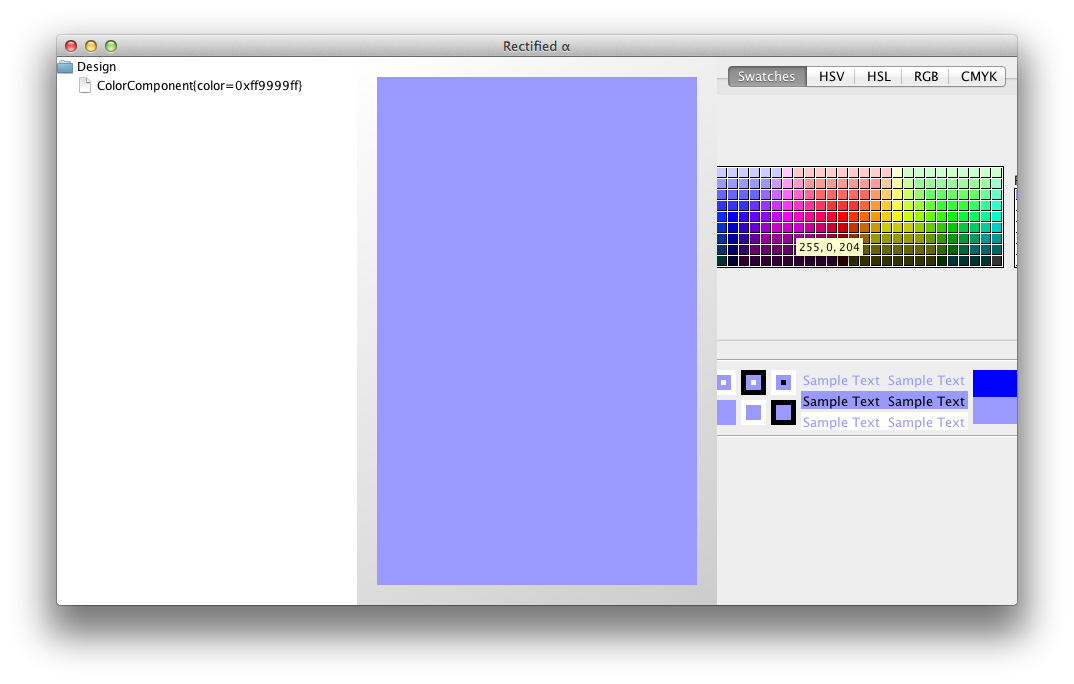
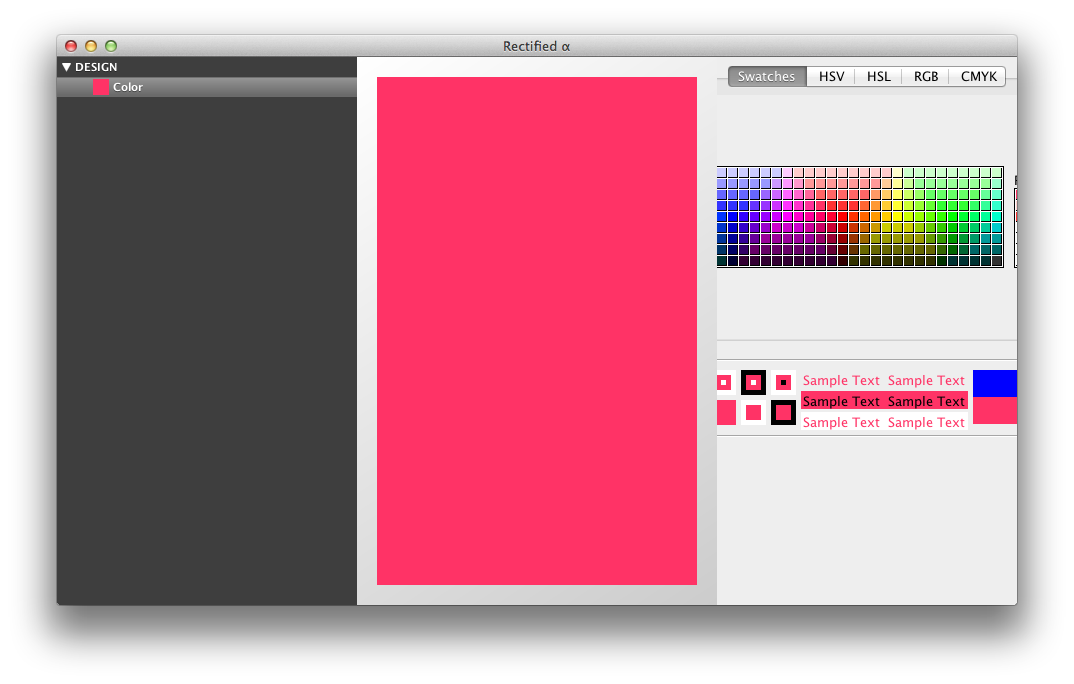
Add macwidgets styling to NavPanelView

diff --git a/src/main/java/net/avh4/tools/rectified/swing/NavPanelView.java b/src/main/java/net/avh4/tools/rectified/swing/NavPanelView.java
@@ -1,15 +1,22 @@
 package net.avh4.tools.rectified.swing;
 
+import com.explodingpixels.macwidgets.SourceListDarkColorScheme;
+import com.explodingpixels.macwidgets.plaf.SourceListTreeUI;
+import com.explodingpixels.widgets.IconProvider;
+import net.avh4.framework.uilayer.swing.SwingGraphicsOperations;
+import net.avh4.math.geometry.Rect;
 import net.avh4.tools.rectified.NavPanel;
 import net.avh4.tools.rectified.Observables;
 import net.avh4.tools.rectified.model.Component;
 import net.avh4.tools.rectified.model.Design;
 import net.avh4.util.Observer;
 import org.pcollections.PVector;
+import org.pcollections.TreePVector;
 
 import javax.swing.*;
 import javax.swing.event.TreeSelectionEvent;
 import javax.swing.event.TreeSelectionListener;
+import javax.swing.tree.DefaultMutableTreeNode;
 import javax.swing.tree.DefaultTreeModel;
 import javax.swing.tree.TreeNode;
 import java.awt.*;
@@ -20,7 +27,16 @@ public class NavPanelView extends JPanel {
 
     public NavPanelView(Observables observables, final NavPanel panel) {
         super(new BorderLayout());
-        tree = new JTree();
+        tree = new JTree() {
+            @Override protected void paintComponent(Graphics g) {
+                Graphics2D g2 = (Graphics2D) g;
+                g2.setRenderingHint(RenderingHints.KEY_ANTIALIASING, RenderingHints.VALUE_ANTIALIAS_ON);
+                super.paintComponent(g);
+            }
+        };
+        final SourceListTreeUI treeUI = new SourceListTreeUI();
+        tree.setUI(treeUI);
+        treeUI.setColorScheme(new SourceListDarkColorScheme());
         add(tree, BorderLayout.CENTER);
 
         tree.addTreeSelectionListener(new TreeSelectionListener() {
@@ -36,7 +52,8 @@ public class NavPanelView extends JPanel {
 
         observables.design().watch(new Observer<Design>() {
             @Override public void update(Design newValue) {
-                tree.setModel(new DefaultTreeModel(new DesignTreeNode(newValue)));
+                tree.setModel(new DefaultTreeModel(new RootTreeNode(newValue)));
+                tree.expandRow(0);
             }
         });
     }
@@ -82,12 +99,13 @@ public class NavPanelView extends JPanel {
         }
 
         @Override public Enumeration children() {
-            return new ComponentsEnumeration(design.components());
+            return new PVectorEnumeration<>(design.components());
         }
 
-        private static class ComponentTreeNode implements TreeNode {
+        private static class ComponentTreeNode extends DefaultMutableTreeNode {
             private final Component component;
             private final TreeNode parent;
+            private final SwingGraphicsOperations graphicsOperations = new SwingGraphicsOperations();
 
             public ComponentTreeNode(Component component, TreeNode parent) {
                 this.component = component;
@@ -95,7 +113,7 @@ public class NavPanelView extends JPanel {
             }
 
             @Override public String toString() {
-                return component.toString();
+                return component.navString();
             }
 
             @Override public TreeNode getChildAt(int childIndex) {
@@ -125,24 +143,81 @@ public class NavPanelView extends JPanel {
             @Override public Enumeration children() {
                 return null;
             }
+
+            @Override public Object getUserObject() {
+                return new IconProvider() {
+                    @Override public Icon getIcon() {
+                        return new Icon() {
+                            @Override public void paintIcon(java.awt.Component c, Graphics g, int x, int y) {
+                                graphicsOperations.setGraphicsContext(g);
+                                component.draw(Rect.fromTopLeft(x, y, getIconWidth(), getIconHeight()), graphicsOperations, null);
+                            }
+
+                            @Override public int getIconWidth() {
+                                return 16;
+                            }
+
+                            @Override public int getIconHeight() {
+                                return 16;
+                            }
+                        };
+                    }
+                };
+            }
+        }
+    }
+
+    private static class RootTreeNode implements TreeNode {
+        private Design design;
+
+        public RootTreeNode(Design newValue) {
+            design = newValue;
         }
 
-        private static class ComponentsEnumeration implements Enumeration {
-            private PVector<Component> components;
+        @Override public TreeNode getChildAt(int childIndex) {
+            return new DesignTreeNode(design);
+        }
 
-            public ComponentsEnumeration(PVector<Component> components) {
-                this.components = components;
-            }
+        @Override public int getChildCount() {
+            return 1;
+        }
 
-            @Override public boolean hasMoreElements() {
-                return !components.isEmpty();
-            }
+        @Override public TreeNode getParent() {
+            return null;
+        }
 
-            @Override public Object nextElement() {
-                final Component component = components.get(0);
-                components = components.minus(0);
-                return component;
-            }
+        @Override public int getIndex(TreeNode node) {
+            return 0;
+        }
+
+        @Override public boolean getAllowsChildren() {
+            return true;
+        }
+
+        @Override public boolean isLeaf() {
+            return false;
+        }
+
+        @Override public Enumeration children() {
+            return new PVectorEnumeration<>(TreePVector.singleton(design));
+        }
+    }
+
+    private static class PVectorEnumeration<T> implements Enumeration {
+        private PVector<T> components;
+
+        public PVectorEnumeration(PVector<T> components) {
+            this.components = components;
+        }
+
+        @Override public boolean hasMoreElements() {
+            return !components.isEmpty();
+        }
+
+        @Override public Object nextElement() {
+            final T component = components.get(0);
+            components = components.minus(0);
+            return component;
         }
     }
 }

diff --git a/src/main/java/net/avh4/tools/rectified/model/TextComponent.java b/src/main/java/net/avh4/tools/rectified/model/TextComponent.java
@@ -22,6 +22,10 @@ public class TextComponent implements Component {
         g.drawText(fm, value, rect.inset(padding), font, color);
     }
 
+    @Override public String navString() {
+        return "Text: “" + value + "”";
+    }
+
     @Override public String toString() {
         return "TextComponent{" +
                 "value='" + value + '\'' +

diff --git a/src/main/java/net/avh4/tools/rectified/model/PlacementComponent.java b/src/main/java/net/avh4/tools/rectified/model/PlacementComponent.java
@@ -48,6 +48,10 @@ public class PlacementComponent extends Group implements Component {
         return components.plusAll(remainderComponents);
     }
 
+    @Override public String navString() {
+        return toString();
+    }
+
     @Override public String toString() {
         return "PlacementComponent{" +
                 "placement=" + placement +

diff --git a/src/main/java/net/avh4/tools/rectified/model/ImageComponent.java b/src/main/java/net/avh4/tools/rectified/model/ImageComponent.java
@@ -21,6 +21,10 @@ public class ImageComponent implements Component {
         g.drawImage(image, bounds);
     }
 
+    @Override public String navString() {
+        return "Image (" + filename + ")";
+    }
+
     @Override public String toString() {
         return "ImageComponent{" +
                 "filename='" + filename + '\'' +

diff --git a/src/main/java/net/avh4/tools/rectified/model/ColorComponent.java b/src/main/java/net/avh4/tools/rectified/model/ColorComponent.java
@@ -19,6 +19,10 @@ public class ColorComponent implements Component {
         g.drawRect(bounds, color);
     }
 
+    @Override public String navString() {
+        return "Color";
+    }
+
     @Override public String toString() {
         return "ColorComponent{" +
                 "color=0x" + Integer.toHexString(color) +

diff --git a/src/main/java/net/avh4/tools/rectified/model/Component.java b/src/main/java/net/avh4/tools/rectified/model/Component.java
@@ -7,4 +7,6 @@ import net.avh4.math.geometry.Rect;
 
 public interface Component extends Element {
     void draw(Rect rect, GraphicsOperations g, FontMetricsService fm);
+
+    String navString();
 }
